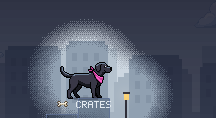
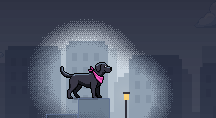
UI review fix 1: locked cards show the level's clean picture, padlock clear of Pepper, no PLAY
Claude-Session: https://claude.ai/code/session_015e2aJZGBdUfnxsoWVWiWHD

Changed region(s): [[0.25, 0.839, 0.5278, 0.9153]]

diff --git a/tools/layout_qa_menus.py b/tools/layout_qa_menus.py
@@ -119,7 +119,11 @@ for f in sorted(glob.glob(f'{D}/*.txt')):
         sc = many(bs, 'score')
         if sc: check(sc[0]['x1'] == Pic['x1'] - 4, f'{shot}: points end at the picture\'s right edge ({sc[0]["x1"]} vs {Pic["x1"] - 4})')
         lk = many(bs, 'lock')
-        if lk: check(abs(cx(lk[0]) - cx(Pic)) <= 0.5 and abs(cy(lk[0]) - cy(Pic)) <= 0.5, f'{shot}: padlock centred on the picture')
+        if lk:                                                              # (review fix 1) on the picture's middle line, off Pepper
+            pp = many(bs, 'cardpepper')
+            check(abs(cy(lk[0]) - cy(Pic)) <= 0.5 and Pic['x0'] < lk[0]['x0'] and lk[0]['x1'] < Pic['x1'], f'{shot}: padlock inside the picture on its middle line')
+            check(pp and not overlaps([lk[0], pp[0]]), f'{shot}: padlock clear of Pepper')
+            check(len(many(bs, 'strip')) == 2, f'{shot}: the strip shows BROWSE and BACK only on a locked card')
         dots = many(bs, 'dot')
         check(abs((min(b['x0'] for b in dots) + max(b['x1'] for b in dots)) / 2 - 159.5) <= 0.5 and min(b['y0'] for b in dots) > P['y1'] and max(b['y1'] for b in dots) < s[0]['y0'] - 2, f'{shot}: dots centred between the card and the strip')
         items = [T, N] + row + many(bs, 'lock', 'hard') + s + dots

diff --git a/CHANGELOG.md b/CHANGELOG.md
@@ -2,6 +2,9 @@
 
 Each delivered build is a git tag. `git checkout v0.1` goes back to any of them.
 
+## Branch `ui/review-fixes`: fixes from the independent screen review (24 Oct)
+- **1 Locked level cards (flow.lua, tests_cards.lua, art/ui/cards rooftops, soder, night):** the pictures shot again by tools/card_shots.py with the greybox debug labels (CHIMNEY STACK, CRATES, BIKES) and the placeholder bones left out; unlocked cards unchanged. The padlock sits three quarters across the picture, clear of Pepper (F.SEL.PEPPER); a locked or missing level's strip shows BROWSE and BACK only. layout_qa_menus.py checks the padlock is on the picture's middle line, clear of Pepper, and the two-item strip.
+
 ## Branch `ui/panel-hud`: no HUD row under the cards (24 Oct)
 - **Drawing only (main.lua, bonus.lua, flow.lua):** while a centred card is up over the game (level intro, story, pause and QUIT?, controls from the pause, GAME OVER, GOOD GIRL! tally, FETCH FRENZY intro and result) the HUD row is not drawn at all; the warm dim and the controls strip stay. The pause already shows the bones found, the tally the level's points. The ending card moved 4 px down and a card dropping in never rises above the 4 px top margin, so no ribbon or frame is cut by the screen's top. Talk panel and hint bubbles unchanged. Checks: layout_qa_menus.py checks no HUD piece outside a card's panel and the 4 px top margin; layout_qa8.py checks no HUD row under a card (instead of filtering it out). Sheet: out/panel_hud_before_after.png (not committed).
 
